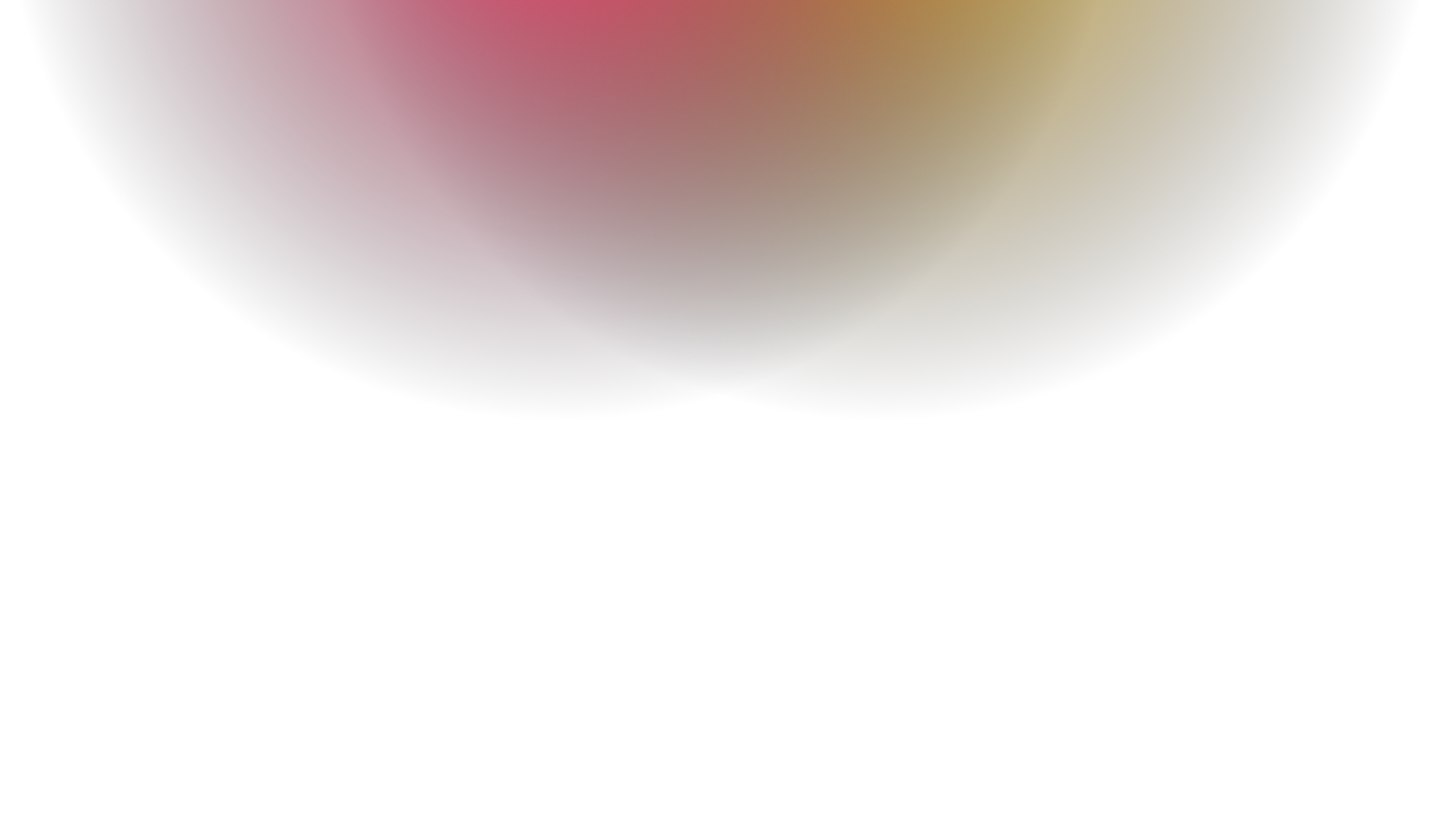
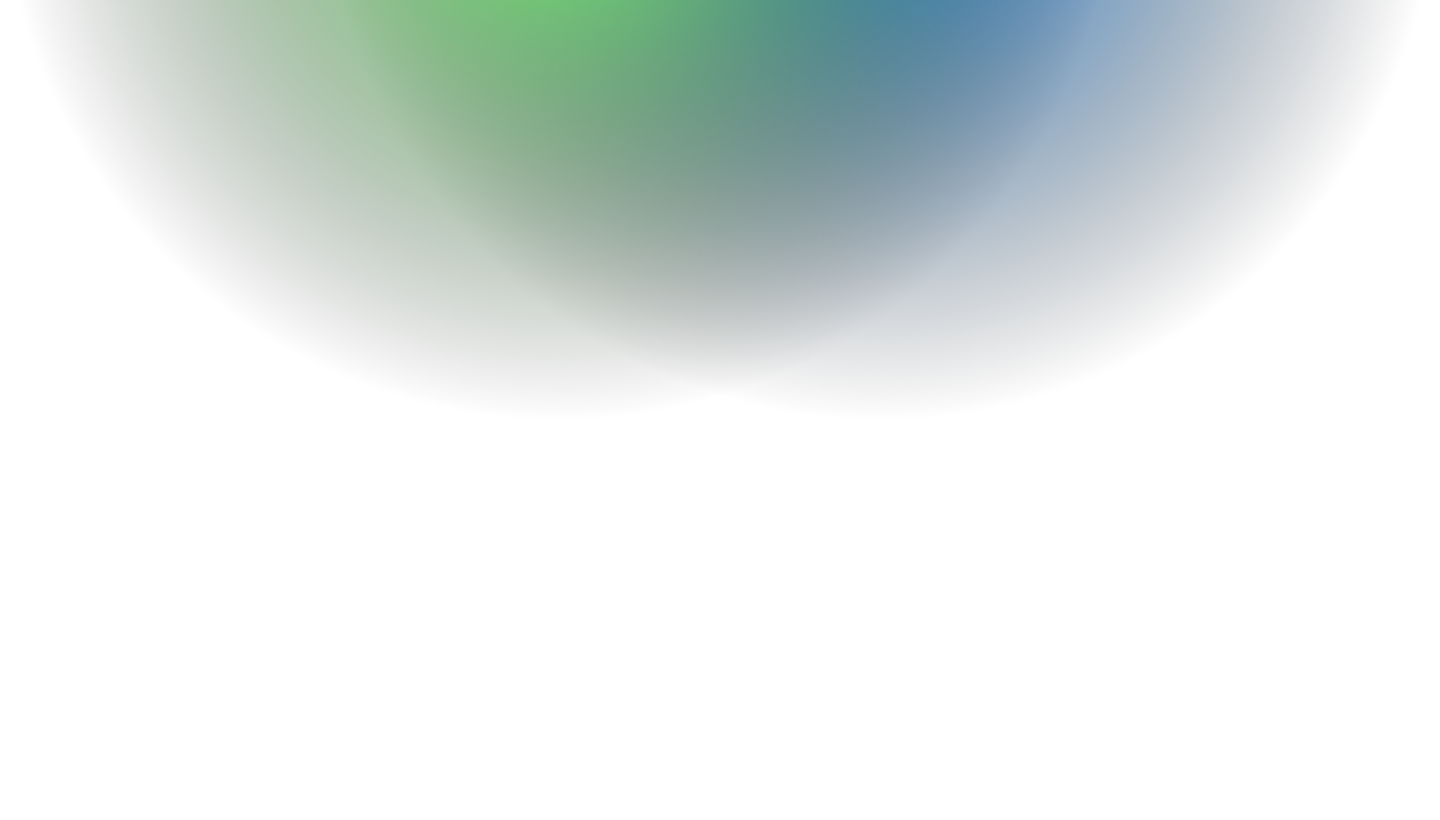
Preparando para animação de fundo

Changed region(s): [[0.1562, 0.0, 0.875, 0.3049]]

diff --git a/style.css b/style.css
@@ -98,9 +98,10 @@ ul {
 
 @media (min-width: 481px) {
   body {
+    background: url(images/background2.png) no-repeat;
     background-color: black;
   }
-
+  /*
   .lights {
     position: absolute;
     z-index: 0;
@@ -149,7 +150,7 @@ ul {
     height: 400px;
     animation: moveSide2 4s ease-in-out infinite alternate;
   }
-
+*/
   main {
     width: 22.3rem;
     height: 33.7rem;
